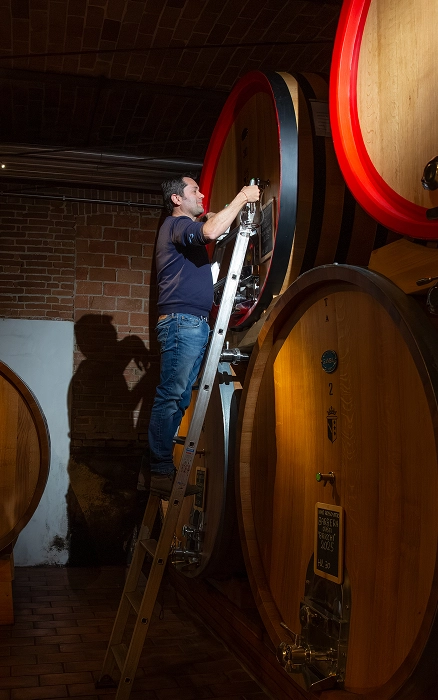
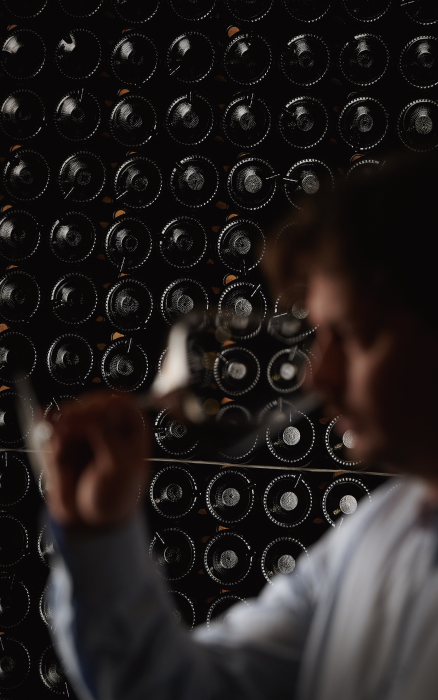
changed 2 photos in Wine and Taste in HomePage and 1 photo in Wine and Taste in ExperiencesPage

diff --git a/src/sections/Experiences/Experiences.tsx b/src/sections/Experiences/Experiences.tsx
@@ -257,7 +257,7 @@ export function Experiences() {
                 <img
                   src={experience.image}
                   alt={t(`experienceCards.${experience.title}`)}
-                  className="w-full h-[480px] lg:h-[380px] xl:h-[480px] min-[1720px]:h-[580px] object-cover transition-transform duration-1000 ease-[cubic-bezier(0.22,1,0.36,1)] group-hover:scale-105"
+                  className="w-full h-[480px] lg:h-[380px] xl:h-[480px] min-[1720px]:h-[580px] object-cover will-change-transform transition-transform duration-1000 ease-[cubic-bezier(0.22,1,0.36,1)] group-hover:scale-105"
                 />
               </div>
 
@@ -381,7 +381,7 @@ export function Experiences() {
                 <img
                   src={experience.image}
                   alt={t(`experienceCards.${experience.title}`)}
-                  className="w-full h-[480px] lg:h-auto object-cover transition-transform duration-1000 ease-[cubic-bezier(0.22,1,0.36,1)] group-hover:scale-105"
+                  className="w-full h-[480px] lg:h-auto object-cover will-change-transform transition-transform duration-1000 ease-[cubic-bezier(0.22,1,0.36,1)] group-hover:scale-105"
                 />
               </div>
 
@@ -507,7 +507,7 @@ export function Experiences() {
                 <img
                   src={experience.image}
                   alt={t(`experienceCards.${experience.title}`)}
-                  className="w-full object-cover transition-transform duration-1000 ease-[cubic-bezier(0.22,1,0.36,1)] group-hover:scale-105"
+                  className="w-full object-cover will-change-transform transition-transform duration-1000 ease-[cubic-bezier(0.22,1,0.36,1)] group-hover:scale-105"
                 />
               </div>
 

diff --git a/src/utils/smoothScrollToTop/smoothScrollToTop.ts b/src/utils/smoothScrollToTop/smoothScrollToTop.ts
@@ -4,7 +4,7 @@ export function smoothScrollToTop() {
   if (start === 0) return;
 
   // Время зависит от расстояния
-  const duration = Math.min(Math.max(start * 0.5, 550), 2200);
+  const duration = Math.min(Math.max(start * 0.5, 550), 2000);
 
   const startTime = performance.now();
   let animationFrameId: number;
